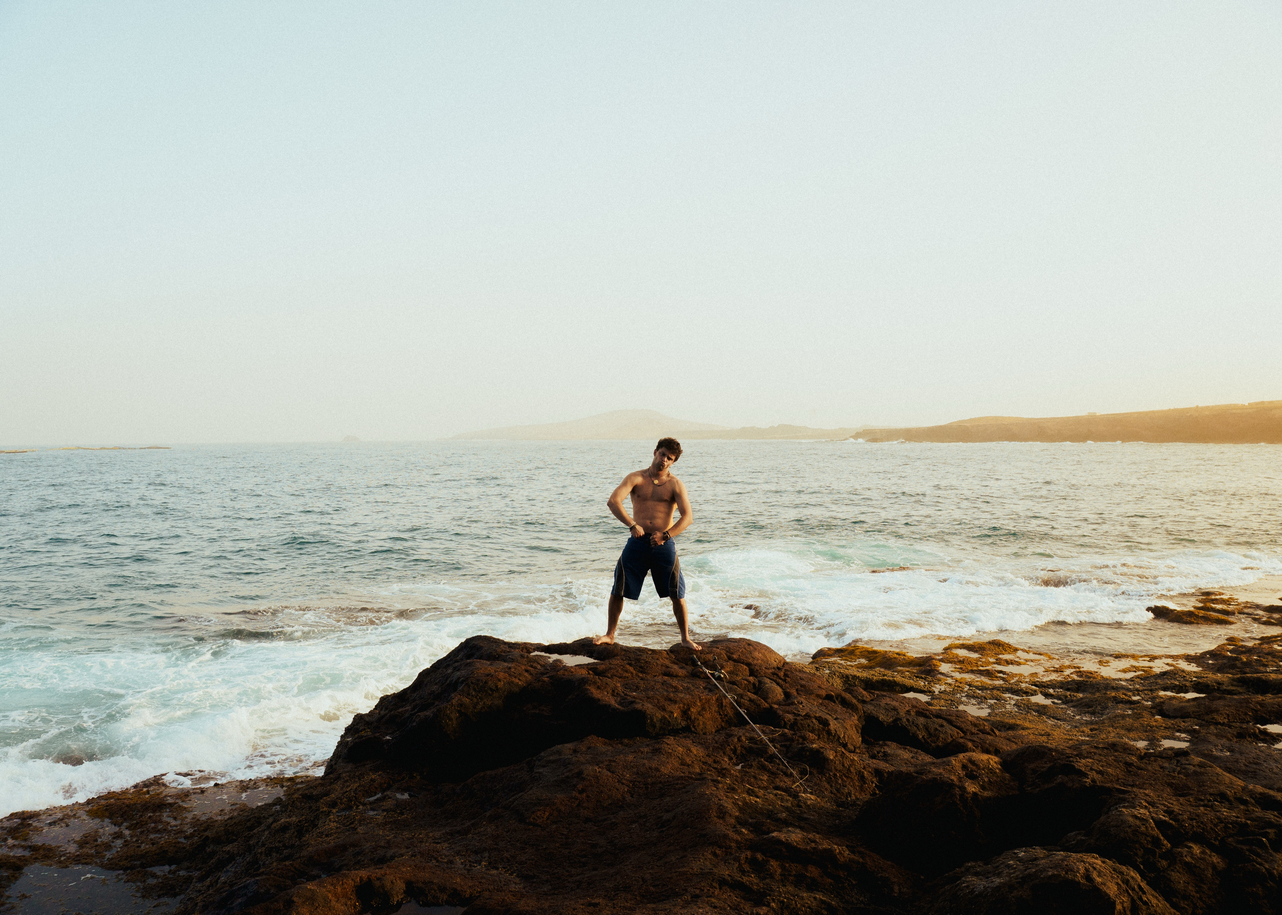
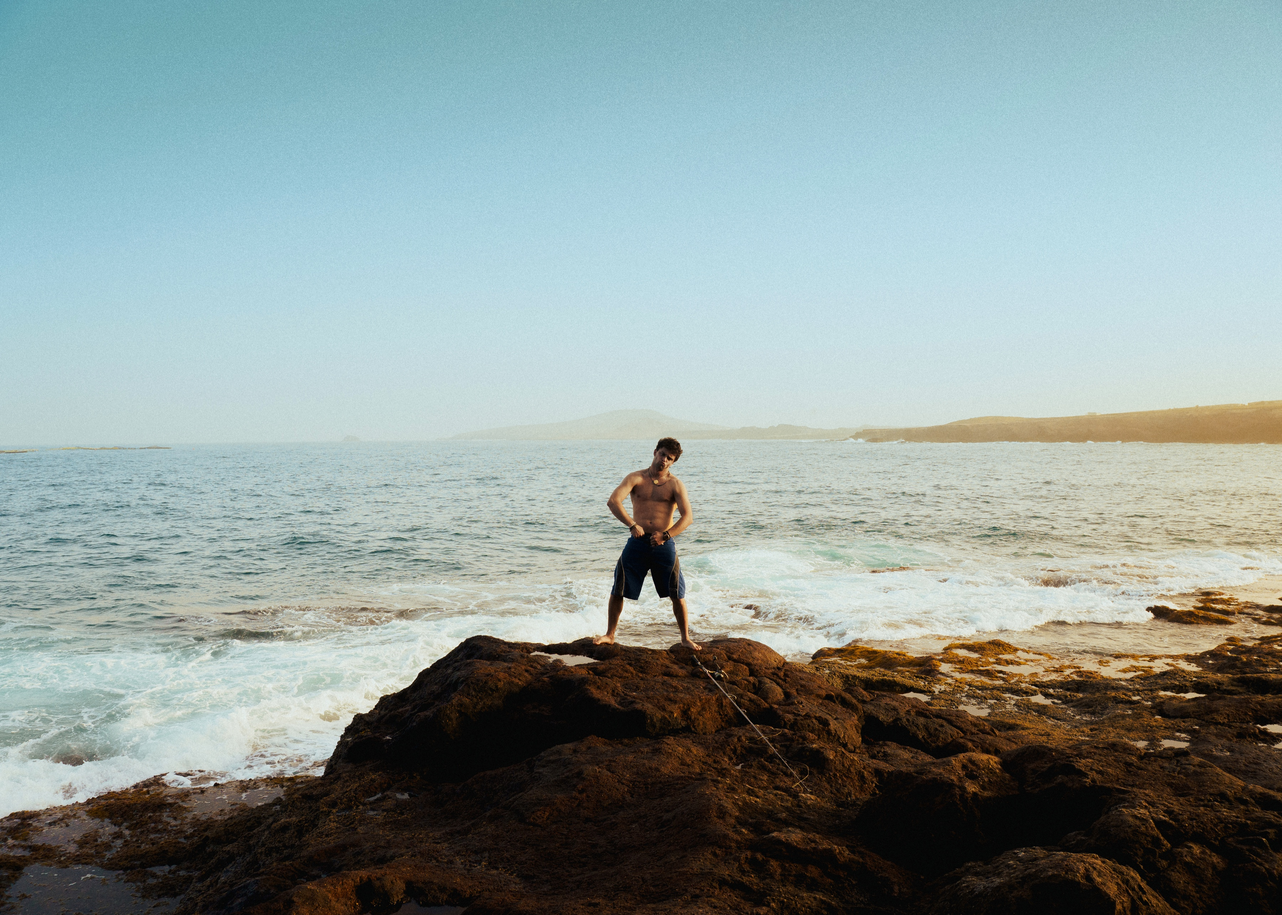
Portada: foto con el cielo azul y cabecera en negro
Guzmán cambia la foto de la portada por otra de la misma sesión, con el
cielo más azul, y pide la cabecera en negro para que se lea: sobre el
cielo (gris medio en blanco y negro) el blanco no se veía.

- Firma negra del todo en la portada, sin fusión (la fusión la dejaba
  gris sobre ese cielo); el texto de las cajitas, negro como en el resto.
  El copyright sigue en blanco, sobre las rocas oscuras.
- El color de fondo de la página en la portada (el que usa Safari para
  sus barras) pasa al gris del cielo de esta foto, #a6a6a6.
- La opción de Base pasa a llamarse "portada" (ya no es solo "blanca").

Comprobado en Chrome y motor de Safari, ordenador y móvil: firma y
botones rgb(26,26,26), pie blanco; cabecera igual que en Encargos
(Safari ordenador y móvil, Chrome móvil; en Chrome ordenador sin barras
visibles difiere por la compensación de la barra, como siempre).

diff --git a/src/styles/global.css b/src/styles/global.css
@@ -73,7 +73,7 @@ html:has(.lienzo) {
   /* El gris del cielo de la foto (que empieza en blanco y negro): Safari en
      el móvil tiñe sus barras con el color de fondo de la página, así se
      funden con la foto. El body, transparente, para que no la tape. */
-  background: #dedede;
+  background: #a6a6a6;
 }
 
 html:has(.lienzo) body {
